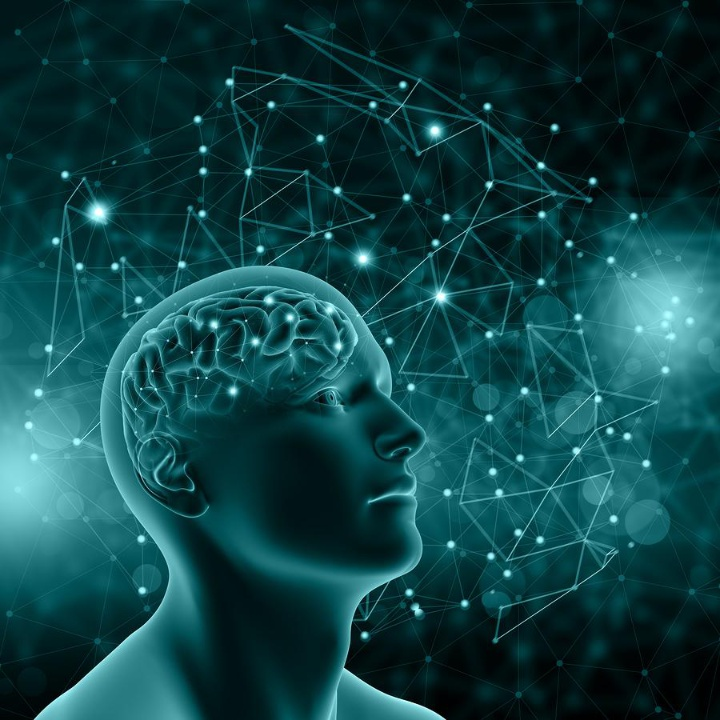
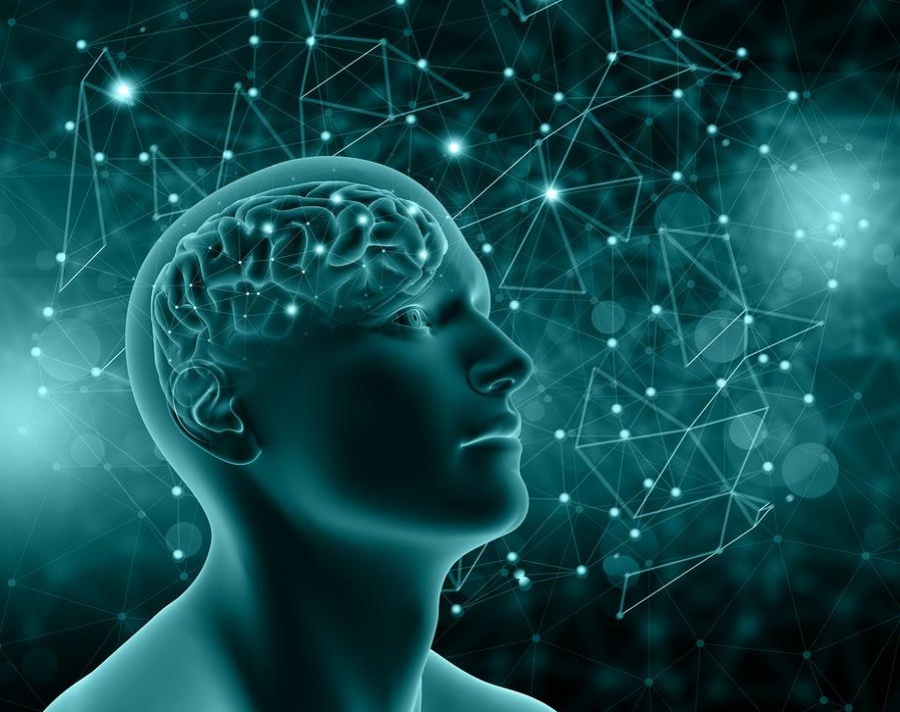
Added KPMG

diff --git a/index.html b/index.html
@@ -283,12 +283,28 @@
                             <div class="item-overlay">
                                 <img class="img-fluid" alt="Item" src="img/sxsw_portfolio.png">
                                 <div class="overlay-content">
-                                    <h6 class="overlay-title">Upcoming Talk: SXSW, Reforming Civilization with AI</h6>
+                                    <h6 class="overlay-title">Upcoming Talk at SXSW: Reforming Civilization with AI</h6>
                                     <div class="overlay-icons">
-                                        <a class="popup-item" href="img/sxsw_portfolio.png" data-lity>
+                                        <!-- <a class="popup-item" href="img/sxsw_portfolio.png" data-lity>
                                         <i class="icon ion-md-eye"></i>
-                                    </a>
+                                    </a> -->
                                         <a href="https://schedule.sxsw.com/2019/events/PP93126?_ga=2.132860046.1823029906.1550508800-617313237.1546030170&_gac=1.119646202.1550264036.CjwKCAiA45njBRBwEiwASnZT5wl7qye9oOhns3NF4j_RTzQi72YOrMtX3AXHWpIa9k_v8HDlMKVS7hoCrnUQAvD_BwE">
+                                        <i class="icon ion-md-link"></i>
+                                    </a>
+                                    </div>
+                                </div>
+                            </div>
+                        </div>
+                        <div class="js-item col-6 col-lg-4" data-groups='["papers"]'>
+                            <div class="item-overlay">
+                                <img class="img-fluid" alt="Item" src="img/brain_portfolio.jpg">
+                                <div class="overlay-content">
+                                    <h6 class="overlay-title">KIMIA Lab Publication Coming Soon</h6>
+                                    <div class="overlay-icons">
+                                        <!-- <a class="popup-item" href="img/brain_portfolio.jpg" data-lity>
+                                        <i class="icon ion-md-eye"></i>
+                                    </a> -->
+                                        <a href="http://kimia.uwaterloo.ca/">
                                         <i class="icon ion-md-link"></i>
                                     </a>
                                     </div>
@@ -299,11 +315,11 @@
                             <div class="item-overlay">
                                 <img class="img-fluid" alt="Item" src="img/showcase_portfolio.png">
                                 <div class="overlay-content">
-                                    <h6 class="overlay-title">Talk: Using Computer Vision to Detect Objects in Real Time</h6>
+                                    <h6 class="overlay-title">Talk at MaRS: Using Computer Vision to Detect Objects in Real Time</h6>
                                     <div class="overlay-icons">
-                                        <a class="popup-item" href="img/showcase_portfolio.png" data-lity>
+                                        <!-- <a class="popup-item" href="img/showcase_portfolio.png" data-lity>
                                         <i class="icon ion-md-eye"></i>
-                                    </a>
+                                    </a> -->
                                         <a href="https://www.youtube.com/watch?v=j0Q0K11iW5o">
                                         <i class="icon ion-md-link"></i>
                                     </a>
@@ -317,9 +333,9 @@
                                 <div class="overlay-content">
                                     <h6 class="overlay-title">Daily Planet Appearance - Discovery Channel</h6>
                                     <div class="overlay-icons">
-                                        <a class="popup-item" href="img/dailyplanet_portfolio.jpg" data-lity>
+                                        <!-- <a class="popup-item" href="img/dailyplanet_portfolio.jpg" data-lity>
                                         <i class="icon ion-md-eye"></i>
-                                    </a>
+                                    </a> -->
                                         <a href="https://www.youtube.com/watch?v=dgrHqd17jn0">
                                         <i class="icon ion-md-link"></i>
                                     </a>
@@ -327,18 +343,18 @@
                                 </div>
                             </div>
                         </div>
-                        <div class="js-item col-6 col-lg-4" data-groups='["papers"]'>
+                        <div class="js-item col-6 col-lg-4" data-groups='["speaking-engagements"]'>
                             <div class="item-overlay">
-                                <img class="img-fluid" alt="Item" src="img/brain_portfolio.jpg">
+                                <img class="img-fluid" alt="Item" src="img/kpmg_portfolio.jpg">
                                 <div class="overlay-content">
-                                    <h6 class="overlay-title">Kimia Lab Paper Coming Soon!</h6>
+                                    <h6 class="overlay-title">Talk at KPMG: Executive Look Conference</h6>
                                     <div class="overlay-icons">
-                                        <a class="popup-item" href="img/brain_portfolio.jpg" data-lity>
+                                        <!-- <a class="popup-item" href="img/kpmg_portfolio.jpg" data-lity>
                                         <i class="icon ion-md-eye"></i>
-                                    </a>
-                                        <a href="http://kimia.uwaterloo.ca/">
+                                    </a> -->
+                                        <!-- <a href="">
                                         <i class="icon ion-md-link"></i>
-                                    </a>
+                                    </a> -->
                                     </div>
                                 </div>
                             </div>

diff --git a/code/resize.py b/code/resize.py
@@ -1,0 +1,10 @@
+import cv2
+import numpy
+import matplotlib.pyplot as plt
+
+def resize_portfolio(filename, new_filename):
+    image = cv2.imread(filename)
+    image_portfolio = cv2.resize(image, (image.shape[1], int(image.shape[1]*(720/909))))
+    cv2.imwrite(new_filename, image_portfolio)
+    return image_portfolio
+    
